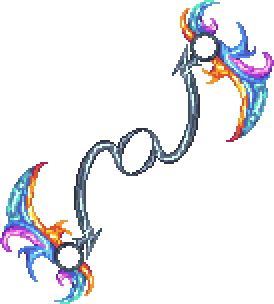
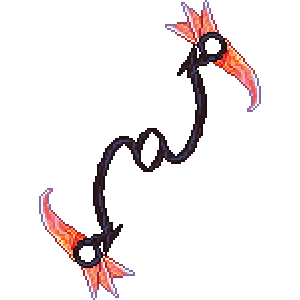
Misc balance and QA stuff
- Updated Jelly Slicer dust (now a pinky slime dust)
- Updated Jelly Slicer to now fire a spread of 3 projectiles instead of just the 1 and they now have local iframes
- Increased Jelly Slicer damage (20-22)
- Corroslime Bass now has local iframes and now deal 2 3rds of the original projectiles damage when split
- Corroslime Bass right click split is now faster than the left click to further promote its use
- Equivalent Exchange now has a tooltip to explain it's right click
- Equivalent Exchange right click now only fires 1 healing bolt but can do so faster and at an increased shot speed than the good book to warrant the cost
- Increased Wind Reaver slash pierce (3-10)
- Increased Marble Scythe damage (21-39)
- Reduced Elemental Reaper damage (230-200)
- Added passive dust and updated some on apply dust to the Elemental Reaper buffs
- Added in the Elemental Reper resprite and now the hitbox should be more accurate to the sprite

Changed region(s): [[0.0, 0.0, 1.0, 1.0]]

diff --git a/Projectiles/HealerPro/Scythes/ElementalBuff.cs b/Projectiles/HealerPro/Scythes/ElementalBuff.cs
@@ -48,27 +48,27 @@ namespace RagnarokMod.Projectiles.HealerPro.Scythes
                     switch (elementIndex)
                     {
                         case 0: // Sand
-                            ApplyBuffWithParticles(player, ModContent.BuffType<ScytheSandBuff>(), 900, DustID.Sandstorm, Color.SandyBrown);
+                            ApplyBuffWithParticles(player, ModContent.BuffType<ScytheSandBuff>(), 900, DustID.Sand, Color.White);
                             ragnarokPlayer.elementalReaperIndex++;
                             break;
 
                         case 1: // Water
-                            ApplyBuffWithParticles(player, ModContent.BuffType<ScytheWaterBuff>(), 900, DustID.Water, Color.CornflowerBlue);
+                            ApplyBuffWithParticles(player, ModContent.BuffType<ScytheWaterBuff>(), 900, DustID.Water, Color.White);
                             ragnarokPlayer.elementalReaperIndex++;
                             break;
 
                         case 2: // Air
-                            ApplyBuffWithParticles(player, ModContent.BuffType<ScytheAirBuff>(), 900, DustID.Cloud, Color.LightGray);
+                            ApplyBuffWithParticles(player, ModContent.BuffType<ScytheAirBuff>(), 900, DustID.Cloud, Color.White);
                             ragnarokPlayer.elementalReaperIndex++;
                             break;
 
                         case 3: // Earth
-                            ApplyBuffWithParticles(player, ModContent.BuffType<ScytheEarthBuff>(), 900, DustID.Stone, Color.SaddleBrown);
+                            ApplyBuffWithParticles(player, ModContent.BuffType<ScytheEarthBuff>(), 900, DustID.Dirt, Color.White);
                             ragnarokPlayer.elementalReaperIndex++;
                             break;
 
                         case 4: // Brimstone
-                            ApplyBuffWithParticles(player, ModContent.BuffType<ScytheBrimstoneBuff>(), 900, DustID.RedTorch, Color.OrangeRed);
+                            ApplyBuffWithParticles(player, ModContent.BuffType<ScytheBrimstoneBuff>(), 900, DustID.RedTorch, Color.White);
                             ragnarokPlayer.elementalReaperIndex++;
                             break;
 

diff --git a/Items/HealerItems/Other/EquivalentExchange.cs b/Items/HealerItems/Other/EquivalentExchange.cs
@@ -37,6 +37,8 @@ namespace RagnarokMod.Items.HealerItems.Other
             base.Item.UseSound = new SoundStyle?(SoundID.Item8);
             base.Item.shoot = ModContent.ProjectileType<BloodTransfusionPro>();
             base.Item.shootSpeed = 13f;
+
+            ItemID.Sets.ItemsThatAllowRepeatedRightClick[Type] = true;
         }
 
         public override bool AltFunctionUse(Player player)
@@ -49,13 +51,22 @@ namespace RagnarokMod.Items.HealerItems.Other
             if (player.altFunctionUse == 2)
             {
                 Projectile.NewProjectile(source, position.X, position.Y, velocity.X * 1.5f, velocity.Y * 1.5f, ModContent.ProjectileType<TheGoodBookPro>(), 0, 0f, player.whoAmI, 0f, 0f);
-                Projectile.NewProjectile(source, position.X, position.Y, velocity.X * 1.5f, velocity.Y * 1.5f, ModContent.ProjectileType<TheGoodBookPro>(), 0, 0f, player.whoAmI, 0f, 0f);
             }
             else
             {
                 Projectile.NewProjectile(source, position.X, position.Y, velocity.X, velocity.Y, type, damage, knockback, player.whoAmI, 0f, 0f);
             }
             return false;
+        }
+
+        public override float UseTimeMultiplier(Player player)
+        {
+            return player.altFunctionUse == 2 ? 0.75f : 1f;
+        }
+
+        public override float UseAnimationMultiplier(Player player)
+        {
+            return player.altFunctionUse == 2 ? 0.75f : 1f;
         }
 
         public override void AddRecipes()

diff --git a/Items/HealerItems/Scythes/JellySlicer.cs b/Items/HealerItems/Scythes/JellySlicer.cs
@@ -21,7 +21,7 @@ namespace RagnarokMod.Items.HealerItems.Scythes
         public override void SetDefaults()
         {
             SetDefaultsToScythe();
-            base.Item.damage = 20;
+            base.Item.damage = 22;
             scytheSoulCharge = 2;
             base.Item.width = 48;
             base.Item.height = 44;
@@ -37,13 +37,28 @@ namespace RagnarokMod.Items.HealerItems.Scythes
             Vector2 vel = velocity2.SafeNormalize(Vector2.UnitX);
             float multiplier = -14f;
 
-            Projectile.NewProjectileDirect(source, position, vel * multiplier, ModContent.ProjectileType<GelScythePro2>(), damage, knockback, player.whoAmI);
+            int count = 3;
+            float spread = MathHelper.ToRadians(15f); // total spread angle
 
+            for (int i = 0; i < count; i++)
+            {
+                float rotation = MathHelper.Lerp(-spread, spread, i / (float)(count - 1));
+                Vector2 perturbedSpeed = (vel * multiplier).RotatedBy(rotation);
 
+                Projectile.NewProjectileDirect(
+                    source,
+                    position,
+                    perturbedSpeed,
+                    ModContent.ProjectileType<GelScythePro2>(),
+                    damage,
+                    knockback,
+                    player.whoAmI
+                );
+            }
 
             return false;
-
         }
+
         public override void AddRecipes()
         {
             Recipe recipe = CreateRecipe();

diff --git a/Buffs/ScytheAirBuff.cs b/Buffs/ScytheAirBuff.cs
@@ -1,7 +1,9 @@
 using Terraria;
+using Terraria.ID;
 using Terraria.Localization;
 using Terraria.ModLoader;
 using ThoriumMod.Empowerments;
+using Microsoft.Xna.Framework;
 
 namespace RagnarokMod.Buffs
 {
@@ -10,9 +12,29 @@ namespace RagnarokMod.Buffs
         public override void Update(Player player, ref int buffIndex)
         {
             player.moveSpeed += 0.2f;
+
             if (player.wingTimeMax > 0)
             {
                 player.wingTimeMax += (int)(player.wingTimeMax * 0.2f);
+            }
+
+            // Particles
+            if (Main.rand.NextBool(2))
+            {
+                Vector2 dustPos = player.position + new Vector2(Main.rand.NextFloat(player.width), Main.rand.NextFloat(player.height));
+
+                Dust dust = Dust.NewDustDirect(
+                    dustPos,
+                    0,
+                    0,
+                    DustID.Cloud,
+                    Main.rand.NextFloat(-1f, 1f),
+                    Main.rand.NextFloat(-0.5f, 0.5f)
+                );
+
+                dust.noGravity = true;
+                dust.scale = 1.1f;
+                dust.alpha = 0;
             }
         }
     }

diff --git a/Buffs/ScytheWaterBuff.cs b/Buffs/ScytheWaterBuff.cs
@@ -1,8 +1,10 @@
 using Terraria;
+using Terraria.ID;
 using Terraria.Localization;
 using Terraria.ModLoader;
 using ThoriumMod;
 using ThoriumMod.Empowerments;
+using Microsoft.Xna.Framework;
 
 namespace RagnarokMod.Buffs
 {
@@ -12,6 +14,25 @@ namespace RagnarokMod.Buffs
         {
             player.GetAttackSpeed(DamageClass.Generic) += 0.05f;
             player.GetAttackSpeed(ThoriumDamageBase<HealerDamage>.Instance) += 0.05f;
+
+            // Particles
+            if (Main.rand.NextBool(2))
+            {
+                Vector2 dustPos = player.position + new Vector2(Main.rand.NextFloat(player.width), Main.rand.NextFloat(player.height));
+
+                Dust dust = Dust.NewDustDirect(
+                    dustPos,
+                    0,
+                    0,
+                    DustID.Water,
+                    Main.rand.NextFloat(-1f, 1f),
+                    Main.rand.NextFloat(-0.5f, 0.5f)
+                );
+
+                dust.noGravity = true;
+                dust.scale = 1.1f;
+                dust.alpha = 0;
+            }
         }
     }
 }

diff --git a/Buffs/ScytheEarthBuff.cs b/Buffs/ScytheEarthBuff.cs
@@ -2,6 +2,8 @@
 using Terraria.Localization;
 using Terraria.ModLoader;
 using ThoriumMod.Empowerments;
+using Microsoft.Xna.Framework;
+using Terraria.ID;
 
 namespace RagnarokMod.Buffs
 {
@@ -10,6 +12,27 @@ namespace RagnarokMod.Buffs
         public override void Update(Player player, ref int buffIndex)
         {
             player.statDefense += 10;
+
+            // Particles
+            if (Main.rand.NextBool(2))
+            {
+                Vector2 dustPos = player.position + new Vector2(Main.rand.NextFloat(player.width), Main.rand.NextFloat(player.height));
+
+                int dustType = Main.rand.NextBool() ? DustID.Dirt : DustID.Stone;
+
+                Dust dust = Dust.NewDustDirect(
+                    dustPos,
+                    0,
+                    0,
+                    dustType,
+                    Main.rand.NextFloat(-1f, 1f),
+                    Main.rand.NextFloat(-0.5f, 0.5f)
+                );
+
+                dust.noGravity = true;
+                dust.scale = 1.3f;
+                dust.alpha = 0;
+            }
         }
     }
 }

diff --git a/Buffs/ScytheOasisBuff.cs b/Buffs/ScytheOasisBuff.cs
@@ -3,6 +3,8 @@ using Terraria;
 using Terraria.Localization;
 using Terraria.ModLoader;
 using ThoriumMod.Empowerments;
+using Microsoft.Xna.Framework;
+using Terraria.ID;
 
 namespace RagnarokMod.Buffs
 {
@@ -11,6 +13,27 @@ namespace RagnarokMod.Buffs
         public override void Update(Player player, ref int buffIndex)
         {
             player.lifeRegen += 40;
+
+            // Particles
+            if (Main.rand.NextBool(2))
+            {
+                Vector2 dustPos = player.position + new Vector2(Main.rand.NextFloat(player.width), Main.rand.NextFloat(player.height));
+
+                Dust dust = Dust.NewDustDirect(
+                    dustPos,
+                    0,
+                    0,
+                    DustID.Grass,
+                    Main.rand.NextFloat(-1f, 1f),
+                    Main.rand.NextFloat(-0.5f, 0.5f),
+                    0,
+                    Color.LimeGreen
+                );
+
+                dust.noGravity = true;
+                dust.scale = 1.1f;
+                dust.alpha = 0;
+            }
         }
     }
 }

diff --git a/Buffs/ScytheSandBuff.cs b/Buffs/ScytheSandBuff.cs
@@ -3,6 +3,8 @@ using Terraria.Localization;
 using Terraria.ModLoader;
 using ThoriumMod;
 using ThoriumMod.Empowerments;
+using Microsoft.Xna.Framework;
+using Terraria.ID;
 
 namespace RagnarokMod.Buffs
 {
@@ -12,6 +14,25 @@ namespace RagnarokMod.Buffs
         {
             player.GetDamage(DamageClass.Generic) += 0.05f;
             player.GetDamage(ThoriumDamageBase<HealerDamage>.Instance) += 0.05f;
+
+            // Particles
+            if (Main.rand.NextBool(2))
+            {
+                Vector2 dustPos = player.position + new Vector2(Main.rand.NextFloat(player.width), Main.rand.NextFloat(player.height));
+
+                Dust dust = Dust.NewDustDirect(
+                    dustPos,
+                    0,
+                    0,
+                    DustID.Sand,
+                    Main.rand.NextFloat(-1f, 1f),
+                    Main.rand.NextFloat(-0.5f, 0.5f)
+                );
+
+                dust.noGravity = true;
+                dust.scale = 1.1f;
+                dust.alpha = 0;
+            }
         }
     }
 }

diff --git a/Items/BardItems/String/CorroslimeBass.cs b/Items/BardItems/String/CorroslimeBass.cs
@@ -56,6 +56,8 @@ namespace RagnarokMod.Items.BardItems.String
             Item.shoot = ModContent.ProjectileType<CorroslimeBassPro>();
             Item.shootSpeed = 20;
             ((ModItem)this).Item.holdStyle = 5;
+
+            ItemID.Sets.ItemsThatAllowRepeatedRightClick[Type] = true;
         }
 		public override bool AltFunctionUse(Player player) => true;
 		public override bool BardShoot(Player player, EntitySource_ItemUse_WithAmmo source, Vector2 position, Vector2 velocity, int type, int damage, float knockback){
@@ -80,6 +82,17 @@ namespace RagnarokMod.Items.BardItems.String
                 return false;
             }
         }
+
+        public override float UseTimeMultiplier(Player player)
+        {
+            return player.altFunctionUse == 2 ? 0.5f : 1f;
+        }
+
+        public override float UseAnimationMultiplier(Player player)
+        {
+            return player.altFunctionUse == 2 ? 0.5f : 1f;
+        }
+
         public override Vector2? HoldoutOffset(){
             return new Vector2(-15, 16);
         }

diff --git a/Buffs/ScytheBrimstoneBuff.cs b/Buffs/ScytheBrimstoneBuff.cs
@@ -3,6 +3,8 @@ using Terraria;
 using Terraria.Localization;
 using Terraria.ModLoader;
 using ThoriumMod.Empowerments;
+using Microsoft.Xna.Framework;
+using Terraria.ID;
 
 namespace RagnarokMod.Buffs
 {
@@ -11,6 +13,25 @@ namespace RagnarokMod.Buffs
         public override void Update(Player player, ref int buffIndex)
         {
             player.GetRagnarokModPlayer().brimstoneFlamesOnHit = true;
+
+            // Particles
+            if (Main.rand.NextBool(4))
+            {
+                Vector2 dustPos = player.position + new Vector2(Main.rand.NextFloat(player.width), Main.rand.NextFloat(player.height));
+
+                Dust dust = Dust.NewDustDirect(
+                    dustPos,
+                    0,
+                    0,
+                    60,
+                    Main.rand.NextFloat(-1f, 1f),
+                    Main.rand.NextFloat(-0.5f, 0.5f)
+                );
+
+                dust.noGravity = true;
+                dust.scale = 1.5f;
+                dust.alpha = 0;
+            }
         }
     }
 }

diff --git a/Projectiles/BardPro/String/CorroslimeBassPro.cs b/Projectiles/BardPro/String/CorroslimeBassPro.cs
@@ -34,6 +34,10 @@ namespace RagnarokMod.Projectiles.BardPro.String
             Projectile.tileCollide = true;
             Projectile.penetrate = -1;
             Projectile.timeLeft = 420;
+
+            Projectile.usesLocalNPCImmunity = true;
+            Projectile.localNPCHitCooldown = 40;
+            Projectile.usesIDStaticNPCImmunity = false;
         }
 
         public override bool OnTileCollide(Vector2 oldVelocity){
@@ -62,7 +66,7 @@ namespace RagnarokMod.Projectiles.BardPro.String
 					Projectile.Center,
 					newVelocity,
 					Projectile.type,
-					Projectile.damage / 2,
+					((Projectile.damage / 3) * 2),
 					Projectile.knockBack,
 					Projectile.owner
 				);

diff --git a/Projectiles/HealerPro/Scythes/GelScythePro1.cs b/Projectiles/HealerPro/Scythes/GelScythePro1.cs
@@ -42,7 +42,7 @@ namespace RagnarokMod.Projectiles.HealerPro.Scythes
 
             dustOffset = new Vector2(-15f, 15f);
             dustCount = 4;
-            dustType = DustID.Shadowflame;
+            dustType = DustID.t_Slime;
         }
 
         public override void SafeAI()
@@ -54,6 +54,10 @@ namespace RagnarokMod.Projectiles.HealerPro.Scythes
             }
         }
 
+        public override void ModifyDust(Dust dust, Vector2 position, int scytheIndex)
+        {
+            dust.color = new Color(255, 105, 180, 40);
+        }
 
         public override bool PreDraw(ref Color lightColor)
         {
